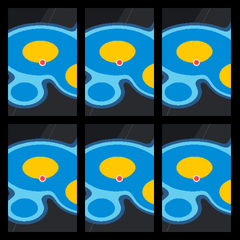
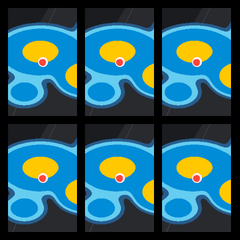
fix: keep the Rain Radar home marker red in its animation
The marker's few red pixels were quantized to tan in the GIF. The radar
now keeps the theme's error colour in the palette and draws a larger
dot with a wider white ring.

diff --git a/tests/widgets/test_radar_widget.py b/tests/widgets/test_radar_widget.py
@@ -311,3 +311,56 @@ def test_still_radar_fetches_and_shows_only_now(snapshot):
     assert "left:0.00%;top:-2px" in html
     assert "left:50.00%" in html
     assert "background:var(--warning)" not in html
+
+
+def _light_rain_snapshot(snapshot):
+    """Rain without a single red pixel: nothing else in the GIF is red."""
+    from io import BytesIO
+
+    from PIL import Image, ImageDraw
+
+    from custom_components.geekmagic.radar_tiles import RadarSnapshot
+
+    rings = [
+        ((194, 180, 130, 140), 200),
+        ((108, 209, 235, 255), 150),
+        ((0, 154, 213, 255), 100),
+        ((0, 85, 136, 255), 50),
+    ]
+    tiles = []
+    for k, (stamp, _) in enumerate(snapshot.frames):
+        tile = Image.new("RGBA", (512, 512), (0, 0, 0, 0))
+        draw = ImageDraw.Draw(tile)
+        for color, radius in rings:
+            cx = 180 + 8 * k
+            draw.ellipse((cx - radius, 300 - radius, cx + radius, 300 + radius), fill=color)
+        buf = BytesIO()
+        tile.save(buf, format="PNG")
+        tiles.append((stamp, buf.getvalue()))
+    return RadarSnapshot(tiles, (0, 0), snapshot.base, snapshot.labels)
+
+
+@pytest.mark.parametrize("theme", ["watchos", "classic"])
+@pytest.mark.parametrize("layout_class", [FullscreenLayout, HeroSimpleLayout])
+def test_home_marker_stays_red_in_the_gif(snapshot, theme, layout_class):
+    """The few marker pixels keep their own palette entry instead of turning tan."""
+    from io import BytesIO
+
+    from PIL import Image
+
+    renderer = Renderer()
+    layout = layout_class()
+    layout.theme = get_theme(theme)
+    layout.set_widget(0, _widget())
+    timing = frame_timing(LOOP_SECONDS)
+    states = _states(layout, _light_rain_snapshot(snapshot))
+    frames = layout.render_animation(renderer, states, list(timing.times))
+    assert frames is not None
+    gif = renderer.to_gif(frames, fps=timing.fps, keep_colors=layout.animation_key_colors())
+    first = Image.open(BytesIO(gif)).convert("RGB")
+    x1, y1, x2, y2 = layout.slots[0].rect
+    pixel = first.getpixel(((x1 + x2) // 2, (y1 + y2) // 2))
+    assert isinstance(pixel, tuple)
+    r, g, b = pixel[:3]
+    assert r >= 220, (r, g, b)
+    assert r - max(g, b) >= 100, (r, g, b)

diff --git a/custom_components/geekmagic/widgets/radar.py b/custom_components/geekmagic/widgets/radar.py
@@ -55,6 +55,8 @@ STALE_SECONDS = 30 * 60
 # Ticks given to each older frame, out of the GIF's 28; the newest frame
 # holds the rest.
 _OLDER_FRAME_TICKS = 20
+# Home marker diameter at the design size (ring excluded)
+MARKER_PX = 12
 # Geometry is designed at a 240 px cell and scales with its long side
 _DESIGN_PX = 240.0
 
@@ -223,6 +225,10 @@ class RadarWidget(Widget):
         """The frames need the longest loop the device plays."""
         return LOOP_SECONDS if self.animate else None
 
+    def animation_key_colors(self, theme: Any) -> list[tuple[int, int, int]]:
+        """The home marker's red: a few pixels the GIF palette would drop."""
+        return [theme.error] if theme is not None else []
+
     def get_entities(self) -> list[str]:
         """The next-hour forecast entity, when one is set."""
         return [self.forecast_entity] if self.forecast_entity else []
@@ -288,12 +294,14 @@ class RadarWidget(Widget):
         if cell.labels_uri and short >= 130:
             parts.append(f'<img src="{cell.labels_uri}" style="{fill}">')
 
-        marker = max(5.0, round(8 * s))
+        marker = max(7.0, round(MARKER_PX * s))
+        ring = max(1.5, round(2 * s, 1))
+        outer = marker + 2 * ring
         parts.append(
             f'<div style="position:absolute;left:50%;top:50%;width:{marker:g}px;'
-            f"height:{marker:g}px;margin-left:{-marker / 2 - 1:g}px;"
-            f"margin-top:{-marker / 2 - 1:g}px;border-radius:50%;background:var(--error);"
-            'border:1px solid rgba(255,255,255,0.9)"></div>'
+            f"height:{marker:g}px;margin-left:{-outer / 2:g}px;"
+            f"margin-top:{-outer / 2:g}px;border-radius:50%;background:var(--error);"
+            f'border:{ring:g}px solid rgba(255,255,255,0.95)"></div>'
         )
 
         tz = state.now.tzinfo if state.now is not None and state.now.tzinfo else UTC

diff --git a/scripts/generate_samples.py b/scripts/generate_samples.py
@@ -451,7 +451,7 @@ def generate_radar_animation(renderer: Renderer, output_dir: Path) -> None:
     if not frames:
         print("Radar animation render failed")
         sys.exit(1)
-    gif = renderer.to_gif(frames, fps=timing.fps)
+    gif = renderer.to_gif(frames, fps=timing.fps, keep_colors=layout.animation_key_colors())
     if len(gif) > MAX_IMAGE_SIZE:
         print(f"radar_animated.gif is {len(gif)} bytes, over the {MAX_IMAGE_SIZE} upload budget")
         sys.exit(1)
